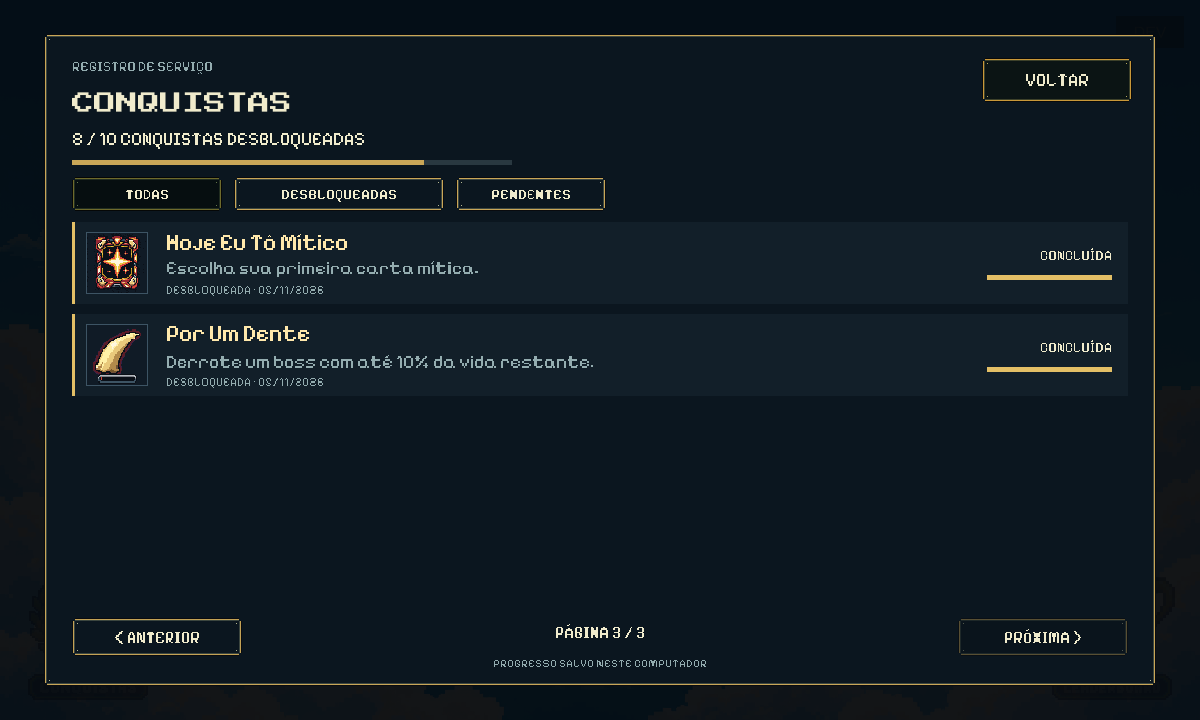
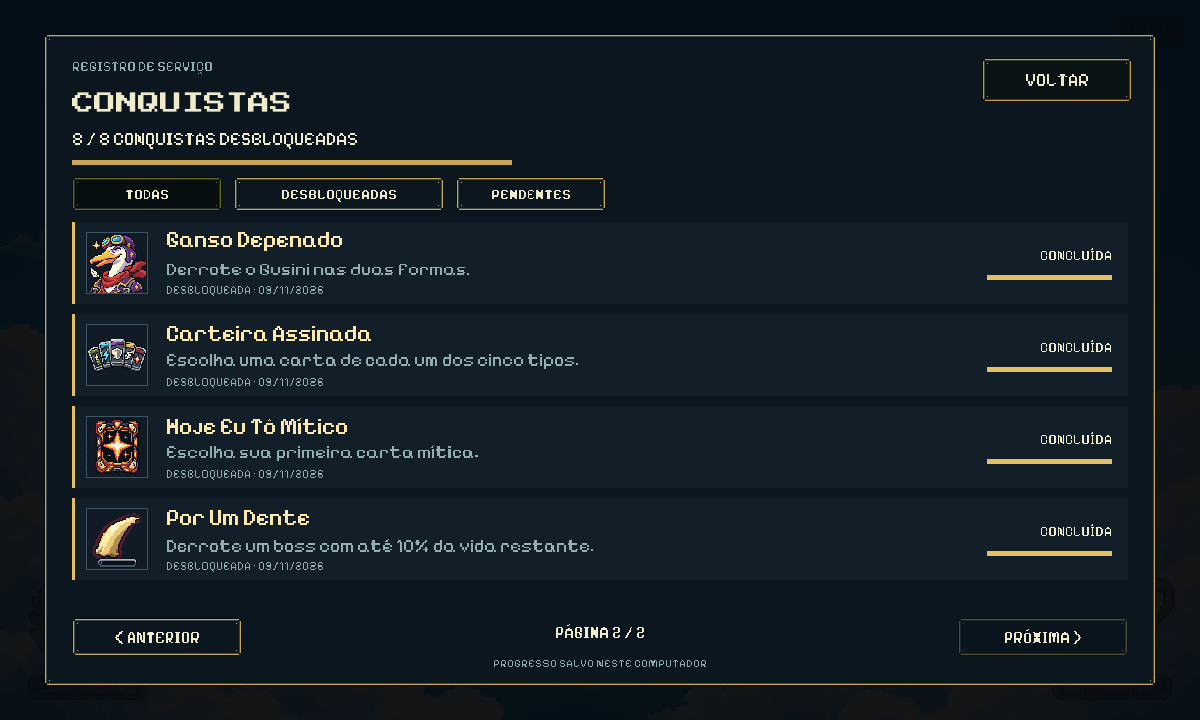
fix(conquistas): oculta fases sem acesso e protege o progresso salvo
Macaquini e Sapeneu saem da lista e do total enquanto as fases so abrem
pelo DEV, que nao grava conquistas. O popup vai para o canto superior
direito e nao cobre mais a barra do boss.

Mudar a meta de uma conquista nao invalida mais o save, e uma falha de
gravacao mantem a conquista pendente para nova tentativa.

Validado com AchievementPlayValidation: 36 + 66 checks, 0 erros.

diff --git a/Crocodilo Invaders/Assets/Scripts/Persistence/AchievementStore.cs b/Crocodilo Invaders/Assets/Scripts/Persistence/AchievementStore.cs
@@ -17,7 +17,8 @@ public sealed class AchievementStore
     [Serializable] sealed class SaveData
     { public int version = 1; public List<Entry> entries = new List<Entry>(); }
     SaveData data;
-    bool validPrimary, readOnly;
+    bool validPrimary, readOnly, unsaved;
+    public bool HasUnsavedChanges => unsaved;
     public string FilePath { get; }
     public string Error { get; private set; }
     public AchievementStore(string directory)
@@ -33,7 +34,7 @@ public sealed class AchievementStore
         return entry == null ? new Entry { id = id } : new Entry { id = id, progress = entry.progress, mask = entry.mask, unlockedUtc = entry.unlockedUtc };
     }
     public int UnlockedCount
-    { get { int n = 0; foreach (var d in AchievementCatalog.All) if (Get(d.Id).Unlocked) n++; return n; } }
+    { get { int n = 0; foreach (var d in AchievementCatalog.Released) if (Get(d.Id).Unlocked) n++; return n; } }
     public bool Set(string id, int progress, out bool unlocked) => Change(id, progress, 0, false, out unlocked);
     public bool Add(string id, int amount, out bool unlocked)
     { return Change(id, Get(id).progress + Mathf.Clamp(amount, 0, 100), 0, false, out unlocked); }
@@ -57,17 +58,12 @@ public sealed class AchievementStore
         progress = Mathf.Clamp(progress, old.progress, definition.Goal);
         if (old.progress == progress && (!useMask || old.mask == mask)) return false;
         var current = data.entries.Find(e => e.id == id);
-        bool added = current == null;
-        if (added) { current = new Entry { id = id }; data.entries.Add(current); }
+        if (current == null) { current = new Entry { id = id }; data.entries.Add(current); }
         current.progress = progress;
         if (useMask) current.mask = mask;
         if (progress >= definition.Goal) current.unlockedUtc = DateTimeOffset.UtcNow.ToUnixTimeSeconds();
-        if (!Save())
-        {
-            if (added) data.entries.Remove(current);
-            else { current.progress = old.progress; current.mask = old.mask; current.unlockedUtc = old.unlockedUtc; }
-            return false;
-        }
+        // A failed write keeps the award in memory: boss defeats do not fire twice.
+        Save();
         unlocked = current.Unlocked;
         return true;
     }
@@ -86,8 +82,8 @@ public sealed class AchievementStore
                 if (e == null || string.IsNullOrWhiteSpace(e.id) || !ids.Add(e.id) || e.progress < 0 || e.unlockedUtc < 0)
                     throw new InvalidDataException("Invalid achievement entry");
                 var d = AchievementCatalog.Get(e.id);
-                if (d != null && (e.progress > d.Goal || (e.Unlocked && e.progress != d.Goal) || (!e.Unlocked && e.progress == d.Goal)))
-                    throw new InvalidDataException("Invalid achievement progress");
+                // Goals may change between versions; one tuned goal must not discard the whole save.
+                if (d != null) e.progress = e.Unlocked ? d.Goal : Mathf.Min(e.progress, d.Goal - 1);
                 if (e.id == AchievementCatalog.Cards && (e.mask < 0 || e.mask > 31)) throw new InvalidDataException("Invalid card collection");
                 if (e.id == AchievementCatalog.Cards)
                 {
@@ -100,6 +96,7 @@ public sealed class AchievementStore
         catch (Exception e) when (e is IOException || e is InvalidDataException || e is UnauthorizedAccessException || e is ArgumentException)
         { Error = "Não foi possível ler as conquistas. Tentando a cópia de segurança."; result = null; return false; }
     }
+    public void RetrySave() { if (unsaved) Save(); }
     bool Save()
     {
         if (readOnly) { Error = "Progresso criado por uma versão mais recente do jogo."; return false; }
@@ -112,9 +109,9 @@ public sealed class AchievementStore
             { stream.Write(bytes, 0, bytes.Length); stream.Flush(true); }
             if (File.Exists(FilePath)) File.Replace(temp, FilePath, validPrimary ? FilePath + ".bak" : null);
             else { File.Move(temp, FilePath); File.Copy(FilePath, FilePath + ".bak", true); }
-            validPrimary = true; Error = null; return true;
+            validPrimary = true; unsaved = false; Error = null; return true;
         }
         catch (Exception e) when (e is IOException || e is UnauthorizedAccessException)
-        { Error = "Não foi possível salvar as conquistas."; Debug.LogWarning(Error + " " + e.Message); return false; }
+        { unsaved = true; Error = "Não foi possível salvar as conquistas."; Debug.LogWarning(Error + " " + e.Message); return false; }
     }
 }

diff --git a/Crocodilo Invaders/Assets/Scripts/Persistence/AchievementCatalog.cs b/Crocodilo Invaders/Assets/Scripts/Persistence/AchievementCatalog.cs
@@ -6,8 +6,10 @@ public sealed class AchievementDefinition
     public readonly string Id, Name, Description;
     public readonly int Goal;
     public readonly bool Hidden;
-    public AchievementDefinition(string id, string name, string description, int goal = 1, bool hidden = false)
-    { Id = id; Name = name; Description = description; Goal = goal; Hidden = hidden; }
+    // False while the content has no public route: stays out of the list and of the total.
+    public readonly bool Released;
+    public AchievementDefinition(string id, string name, string description, int goal = 1, bool hidden = false, bool released = true)
+    { Id = id; Name = name; Description = description; Goal = goal; Hidden = hidden; Released = released; }
 }
 
 public static class AchievementCatalog
@@ -21,13 +23,16 @@ public static class AchievementCatalog
         new AchievementDefinition(Special, "Bafo de Respeito", "Acerte um especial em um boss."),
         new AchievementDefinition(CleanWave, "Casco Intacto", "Conclua uma onda sem sofrer dano."),
         new AchievementDefinition(Gusini, "Ganso Depenado", "Derrote o Gusini nas duas formas."),
-        new AchievementDefinition(Macaquini, "Descascou o Problema", "Derrote o Macaquini."),
-        new AchievementDefinition(Sapeneu, "Borracha Furada", "Derrote o Sapeneu Cururu."),
+        new AchievementDefinition(Macaquini, "Descascou o Problema", "Derrote o Macaquini.", released: false),
+        new AchievementDefinition(Sapeneu, "Borracha Furada", "Derrote o Sapeneu Cururu.", released: false),
         new AchievementDefinition(Cards, "Carteira Assinada", "Escolha uma carta de cada um dos cinco tipos.", 5),
         new AchievementDefinition(Mythic, "Hoje Eu Tô Mítico", "Escolha sua primeira carta mítica."),
         new AchievementDefinition(LastTooth, "Por Um Dente", "Derrote um boss com até 10% da vida restante.", 1, true)
     };
-    public static IReadOnlyList<AchievementDefinition> All => Array.AsReadOnly(definitions);
+    static readonly IReadOnlyList<AchievementDefinition> all = Array.AsReadOnly(definitions);
+    static readonly IReadOnlyList<AchievementDefinition> released = Array.AsReadOnly(Array.FindAll(definitions, d => d.Released));
+    public static IReadOnlyList<AchievementDefinition> All => all;
+    public static IReadOnlyList<AchievementDefinition> Released => released;
     public static AchievementDefinition Get(string id)
     { foreach (var item in definitions) if (item.Id == id) return item; return null; }
 }

diff --git a/Crocodilo Invaders/Assets/Editor/AchievementDataValidation.cs b/Crocodilo Invaders/Assets/Editor/AchievementDataValidation.cs
@@ -38,7 +38,19 @@ public static class AchievementDataValidation
         Check(!futureStore.Set(AchievementCatalog.FirstWave,1,out _)&&File.ReadAllText(futureStore.FilePath)==future,"future version protected");
         var blocked=Path.Combine(directory,"blocked");File.WriteAllText(blocked,"file, not a directory");
         var failed=new AchievementStore(blocked);
-        Check(!failed.Set(AchievementCatalog.FirstWave,1,out _)&&!failed.Get(AchievementCatalog.FirstWave).Unlocked,"disk failure rolls back unlock");
+        Check(failed.Set(AchievementCatalog.FirstWave,1,out unlocked)&&unlocked&&failed.HasUnsavedChanges&&failed.Error!=null,"disk failure keeps the award pending");
+        failed.RetrySave();Check(failed.HasUnsavedChanges,"retry while the disk still fails stays pending");
+        File.Delete(blocked);failed.RetrySave();
+        Check(!failed.HasUnsavedChanges&&new AchievementStore(blocked).Get(AchievementCatalog.FirstWave).Unlocked,"retry persists the pending award");
+        var tunedDir=Path.Combine(directory,"tuned");Directory.CreateDirectory(tunedDir);
+        File.WriteAllText(Path.Combine(tunedDir,"achievements.json"),"{\"version\":1,\"entries\":[{\"id\":\"sport_mode\",\"progress\":7,\"mask\":0,\"unlockedUtc\":100},{\"id\":\"first_wave\",\"progress\":1,\"mask\":0,\"unlockedUtc\":200}]}");
+        var tuned=new AchievementStore(tunedDir);
+        Check(tuned.Get(AchievementCatalog.Dodge).Unlocked&&tuned.Get(AchievementCatalog.Dodge).progress==10&&tuned.Get(AchievementCatalog.FirstWave).Unlocked,"changed goal keeps unlocks and the rest of the save");
+        File.WriteAllText(Path.Combine(tunedDir,"achievements.json"),"{\"version\":1,\"entries\":[{\"id\":\"sport_mode\",\"progress\":15,\"mask\":0,\"unlockedUtc\":0}]}");
+        var lowered=new AchievementStore(tunedDir);
+        Check(!lowered.Get(AchievementCatalog.Dodge).Unlocked&&lowered.Get(AchievementCatalog.Dodge).progress==9,"lowered goal stays one step from unlocking");
+        Check(AchievementCatalog.All.Count==10&&AchievementCatalog.Released.Count==8,"two achievements wait for a public route");
+        Check(AchievementCatalog.Get(AchievementCatalog.Macaquini).Released==false&&AchievementCatalog.Get(AchievementCatalog.Sapeneu).Released==false,"Macaquini and Sapeneu stay out of the list");
         Debug.Log("ACHIEVEMENTS_DATA_OK checks="+checks);return checks;
     }
 }

diff --git a/Crocodilo Invaders/Assets/Scripts/Presentation/AchievementView.cs b/Crocodilo Invaders/Assets/Scripts/Presentation/AchievementView.cs
@@ -67,7 +67,7 @@ public sealed class AchievementView : MonoBehaviour
     void Refresh()
     {
         visible.Clear();
-        foreach (var definition in AchievementCatalog.All)
+        foreach (var definition in AchievementCatalog.Released)
         {
             bool unlocked = Achievements.Store.Get(definition.Id).Unlocked;
             if (filter == 0 || (filter == 1 && unlocked) || (filter == 2 && !unlocked)) visible.Add(definition);
@@ -81,8 +81,8 @@ public sealed class AchievementView : MonoBehaviour
             { var d = visible[index]; rows[i].Bind(d, Achievements.Store.Get(d.Id), Icon(d)); }
         }
         int count = Achievements.Store.UnlockedCount;
-        summary.text = count + " / " + AchievementCatalog.All.Count + " CONQUISTAS DESBLOQUEADAS";
-        completionFill.fillAmount = count / (float)AchievementCatalog.All.Count;
+        summary.text = count + " / " + AchievementCatalog.Released.Count + " CONQUISTAS DESBLOQUEADAS";
+        completionFill.fillAmount = count / (float)AchievementCatalog.Released.Count;
         pagination.text = "PÁGINA " + (page + 1) + " / " + PageCount;
         previousButton.interactable = page > 0; nextButton.interactable = page + 1 < PageCount;
         empty.gameObject.SetActive(visible.Count == 0);

diff --git a/Crocodilo Invaders/Assets/Editor/AchievementTools.cs b/Crocodilo Invaders/Assets/Editor/AchievementTools.cs
@@ -69,7 +69,7 @@ public static class AchievementTools
     static void ConfigureCompactToast(GameObject feature)
     {
         var rect=(RectTransform)feature.transform.Find("UnlockNotification");
-        Position(rect,new Vector2(300,68),new Vector2(1,0),new Vector2(-12,12));
+        Position(rect,new Vector2(300,68),new Vector2(1,1),new Vector2(-12,-12));
         var background=rect.GetComponent<UnityEngine.UI.Image>();
         background.sprite=null;background.type=UnityEngine.UI.Image.Type.Simple;
         background.color=new Color(.095f,.115f,.14f,.98f);background.raycastTarget=false;

diff --git a/Crocodilo Invaders/Assets/Scripts/Persistence/Achievements.cs b/Crocodilo Invaders/Assets/Scripts/Persistence/Achievements.cs
@@ -10,6 +10,7 @@ public static class Achievements
     public static event Action<AchievementDefinition> Unlocked;
     [RuntimeInitializeOnLoadMethod(RuntimeInitializeLoadType.SubsystemRegistration)]
     static void Reset() { store = null; Changed = null; Unlocked = null; }
+    public static void RetrySave() => store?.RetrySave();
     public static void UseDirectory(string directory) { store = new AchievementStore(directory); Changed?.Invoke(); }
     public static bool Award(string id) => Set(id, AchievementCatalog.Get(id)?.Goal ?? 0);
     public static bool Set(string id, int value)

diff --git a/Crocodilo Invaders/Assets/Scripts/Controllers/AchievementRuntime.cs b/Crocodilo Invaders/Assets/Scripts/Controllers/AchievementRuntime.cs
@@ -35,8 +35,10 @@ public sealed class AchievementRuntime : MonoBehaviour
     {
         if (mode == LoadSceneMode.Additive) return;
         View.HideImmediately();
+        Achievements.RetrySave();
         dialogue = FindAnyObjectByType<DialogueRunner>(); waves = FindAnyObjectByType<WaveController>();
         tracker.BindScene(scene);
     }
+    void OnApplicationQuit() => Achievements.RetrySave();
     void OnDestroy() { if (instance == this) { SceneManager.sceneLoaded -= Loaded; instance = null; } }
 }

diff --git a/Crocodilo Invaders/Docs/Achievements_v01.md b/Crocodilo Invaders/Docs/Achievements_v01.md
@@ -87,3 +87,12 @@ Branch `codex/conquistas-crocs-menu` preparada sobre `Tutsdevtj/main` em `4299e4
 A Unity apresentou `ArgumentOutOfRangeException` no índice interno `UnityEditor.Search.SearchDatabase` durante o startup do Editor na cópia nova. As suítes foram iniciadas depois dessa etapa com um auxiliar temporário, removido do PR. O build Windows v05 descrito acima é anterior à preparação da branch; a branch atual foi compilada e exercitada no Editor, sem gerar outro executável Windows.
 
 Commits novos com author e committer **Picolii / bernardo.p2106@gmail.com**. Skin Crocs guardada sem uso; mudanças locais anteriores de Lago e Macaquini ficaram fora deste PR.
+
+## Correções da revisão de código — 09/11/2026
+
+- Macaquini e Sapeneu ficam com `released: false` no catálogo: as duas fases só abrem pelo DEV, que não grava conquistas. Saem da lista e do total, que passa a 8. Ao liberar uma fase ao público, basta retirar esse argumento.
+- Popup movido para o canto superior direito, sem cobrir a barra do boss.
+- Mudar a meta de uma conquista não invalida mais o save: desbloqueios continuam válidos e progresso acima da nova meta fica a um passo de desbloquear.
+- Falha de gravação mantém a conquista em memória e tenta salvar de novo na próxima alteração, na troca de cena e ao fechar o jogo.
+
+Validação: 36 verificações de dados + 66 de Play Mode, zero erros.
